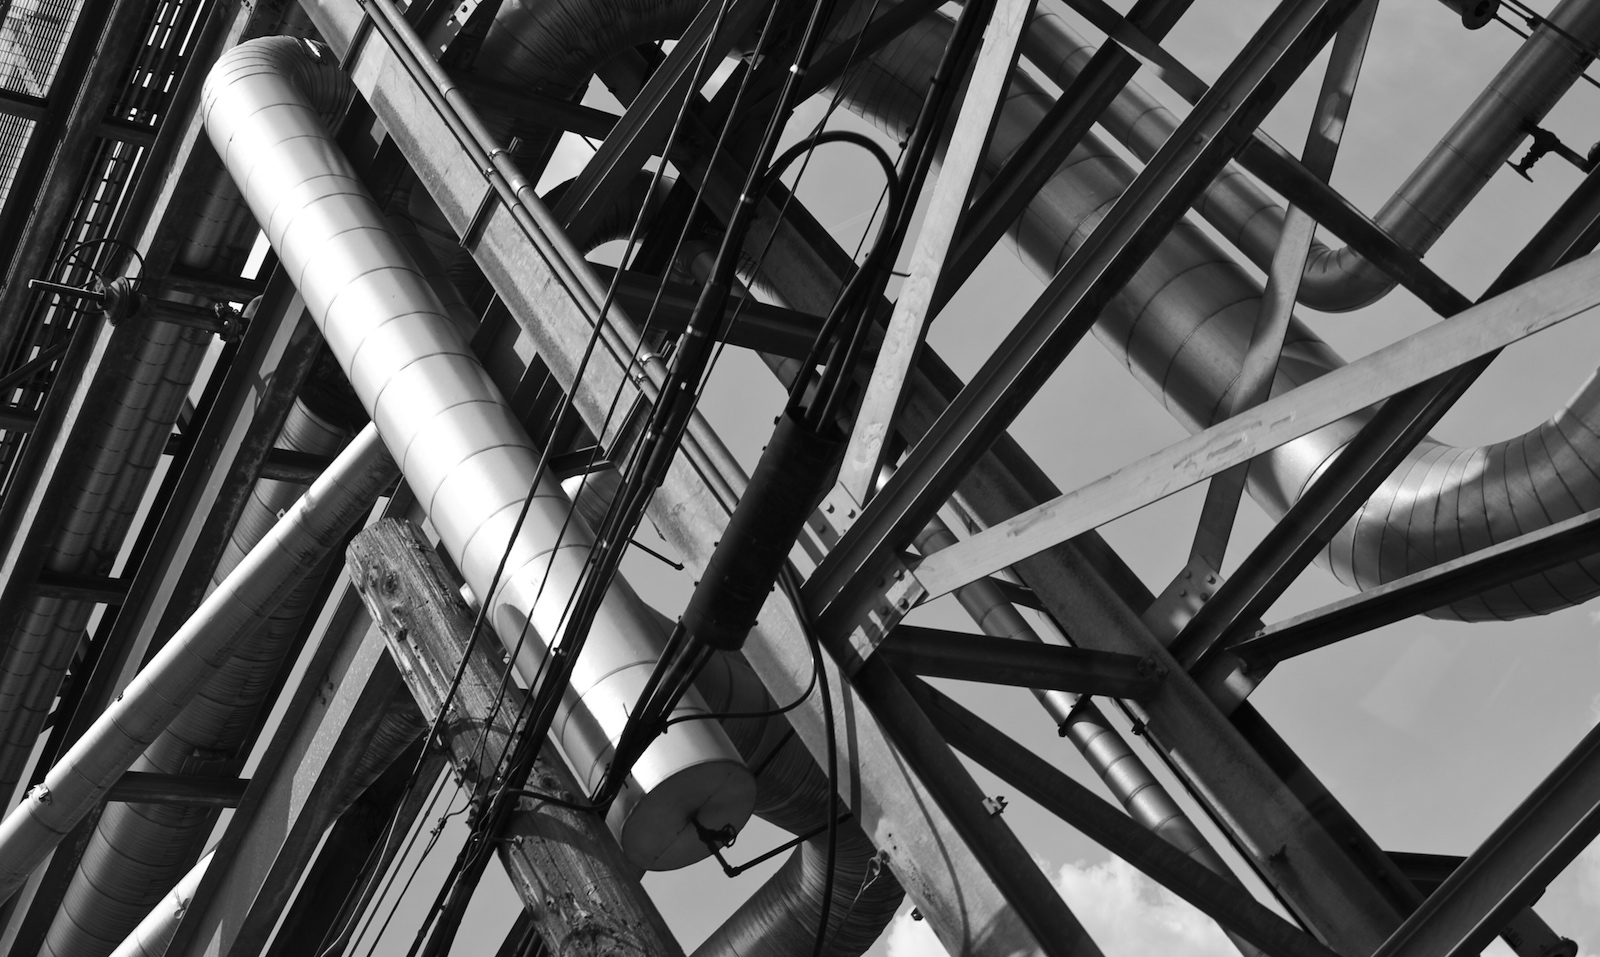
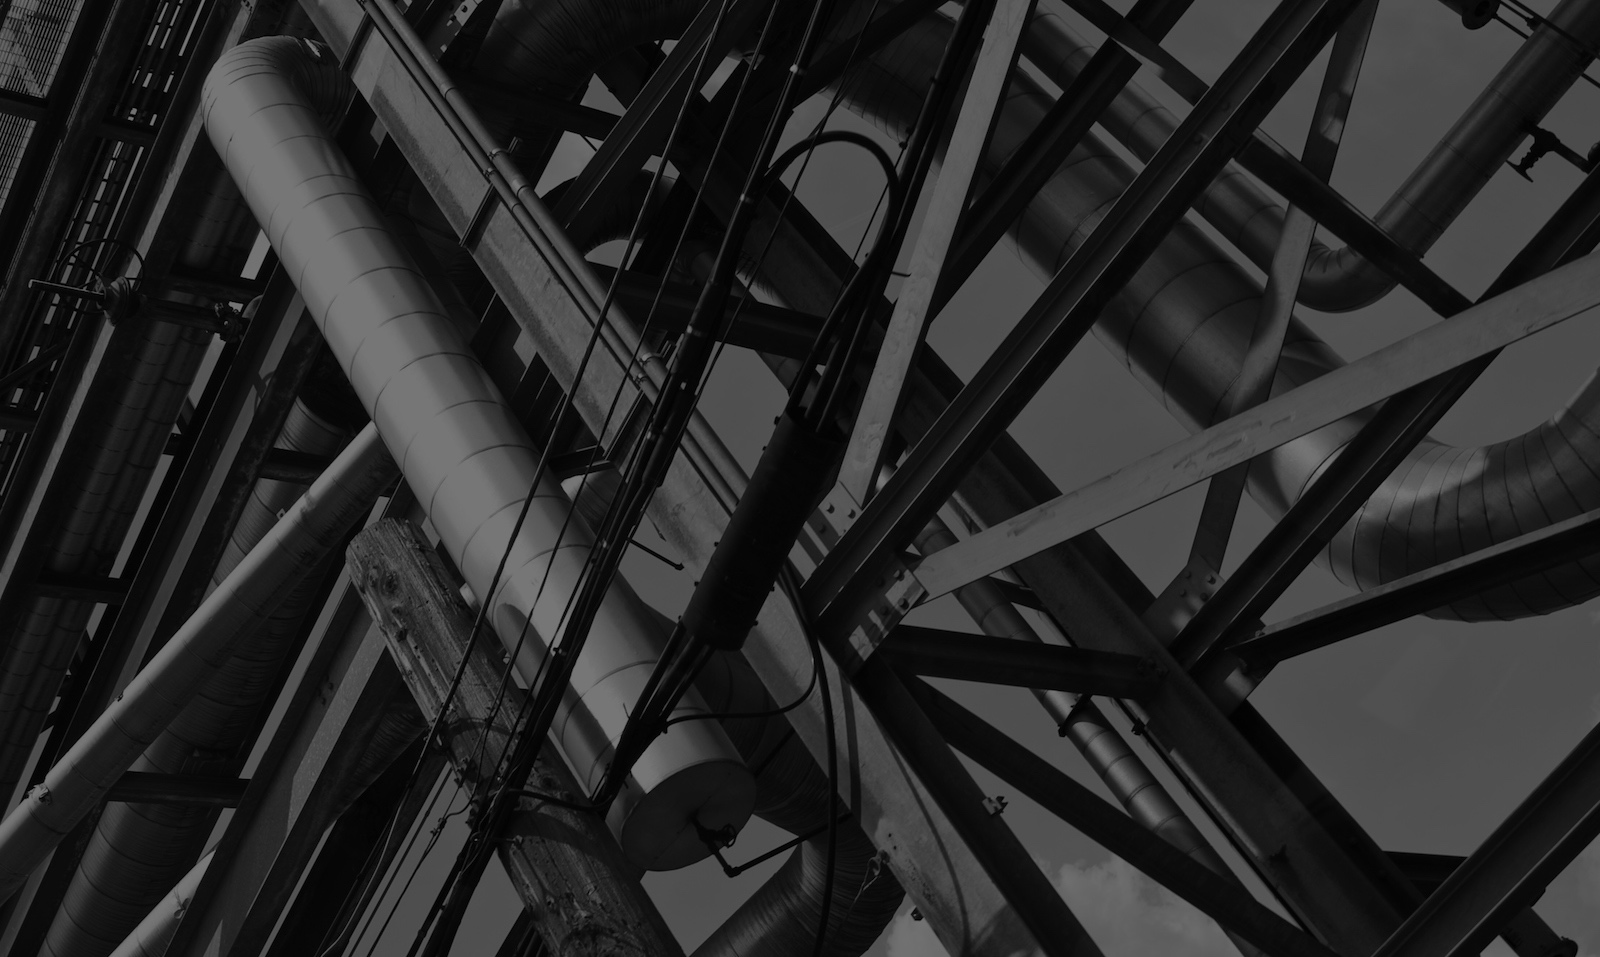
background darkened

diff --git a/_includes/css/agency.css b/_includes/css/agency.css
@@ -344,7 +344,6 @@ header .intro-text .intro-lead-in {
     font-size: 22px;
     font-style: italic;
     line-height: 22px;
-    background-color:rgba(0,0,0,0.5);
 }
 
 header .intro-text .intro-heading {
